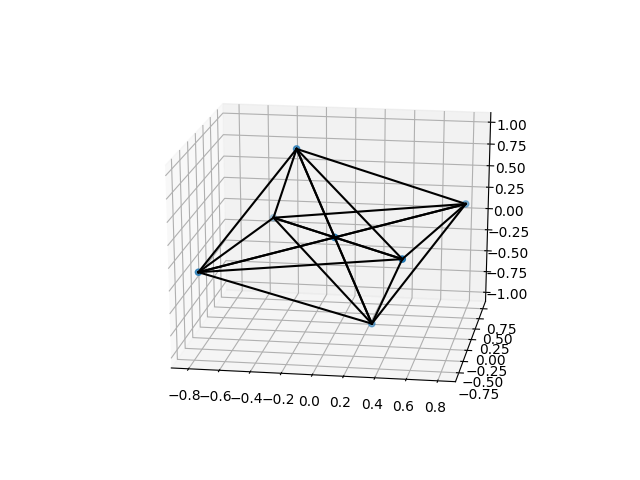
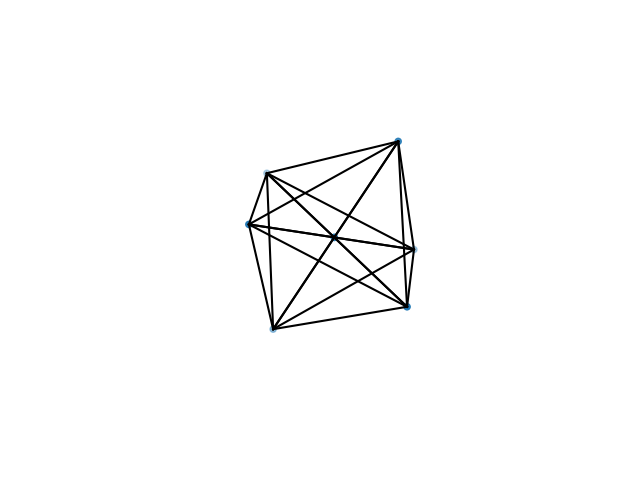
orthographic projection and some new results

Changed region(s): [[0.25, 0.2188, 0.8438, 0.875]]

diff --git a/convex_hull_4dto3d.py b/convex_hull_4dto3d.py
@@ -11,9 +11,20 @@ from scipy.spatial import ConvexHull
 import matplotlib.pyplot as plt
 import matplotlib.collections as pltcol
 from mpl_toolkits.mplot3d import Axes3D
+from mpl_toolkits.mplot3d import proj3d
 
 high_dimension = 4
 low_dimension = 3
+ 
+def orthogonal_proj(zfront, zback):
+    a = (zfront+zback)/(zfront-zback)
+    b = -2*(zfront*zback)/(zfront-zback)
+    # -0.0001 added for numerical stability as suggested in:
+    # http://stackoverflow.com/questions/23840756
+    return np.array([[1,0,0,0],
+                        [0,1,0,0],
+                        [0,0,a,b],
+                        [0,0,-0.0001,zback]])
 
 def rotate(l, n):
     return l[-n:] + l[:-n]
@@ -159,6 +170,9 @@ def print_convex_hull(bases):
   for edge in edges:
     line = [list(points[j]) for j in edge]
     ax.plot([line[0][0], line[1][0]], [line[0][1], line[1][1]], [line[0][2], line[1][2]], color='k')
+  ax.set_aspect('equal')
+  ax.axis('off')
+  proj3d.persp_transformation = orthogonal_proj
   plt.show()
 
 def shadow_volume(bases):
@@ -178,9 +192,9 @@ def maximize_shadow():
 # vertices = array(get_5_cell_vertices()) # edge first
 # vertices = array(get_cube_vertices(4)) # vertex first
 # vertices = array(get_orthoplex_vertices(4)) # vertex first
-vertices = array(get_24_cell_vertices()) # what?
-# vertices = array(get_120_cell_vertices())
-# vertices = array(get_600_cell_vertices())
+# vertices = array(get_24_cell_vertices()) # what?
+vertices = array(get_120_cell_vertices()) # unclear
+# vertices = array(get_600_cell_vertices()) # close to vertex first (3.55 vs 3.53)
 edges = get_edges(vertices)
 print "vertex count:", len(vertices), "edge count:", len(edges)
 
@@ -191,18 +205,18 @@ def main():
   # print "Volume of the known bases: ", shadow_volume(known_bases)
 
   # trivial bases
-  # known_bases = array([[1, 0, 0, 0], [0, 1, 0, 0], [0, 0, 1, 0]])
+  known_bases = array([[1, 0, 0, 0], [0, 1, 0, 0], [0, 0, 1, 0]])
 
   # B4
-  t = 1 + math.sqrt(2.0)
-  known_bases = array([[t, t, 1, 1], [-1, 1, t, -t], [1, 1, -t, -t]])
+  # t = 1 + math.sqrt(2.0)
+  # known_bases = array([[t, t, 1, 1], [-1, 1, t, -t], [1, 1, -t, -t]])
 
   # F4
-  # a = -1 + math.sqrt(3.0)
-  # known_bases = array([[1, 1, a, 0], [1, -1, 0, a]])
+  a = -1 + math.sqrt(3.0)
+  # known_bases = array([[1, 1, a, 0], [1, -1, 0, a], [a, 0, -1, -1]])
 
   print "Volume of the known bases: ", shadow_volume(known_bases)
-  # print_convex_hull(known_bases)
+  print_convex_hull(known_bases)
 
   max_shadow, orth_optimal_bases = maximize_shadow()
   print "Volume of max shadow: ", max_shadow
